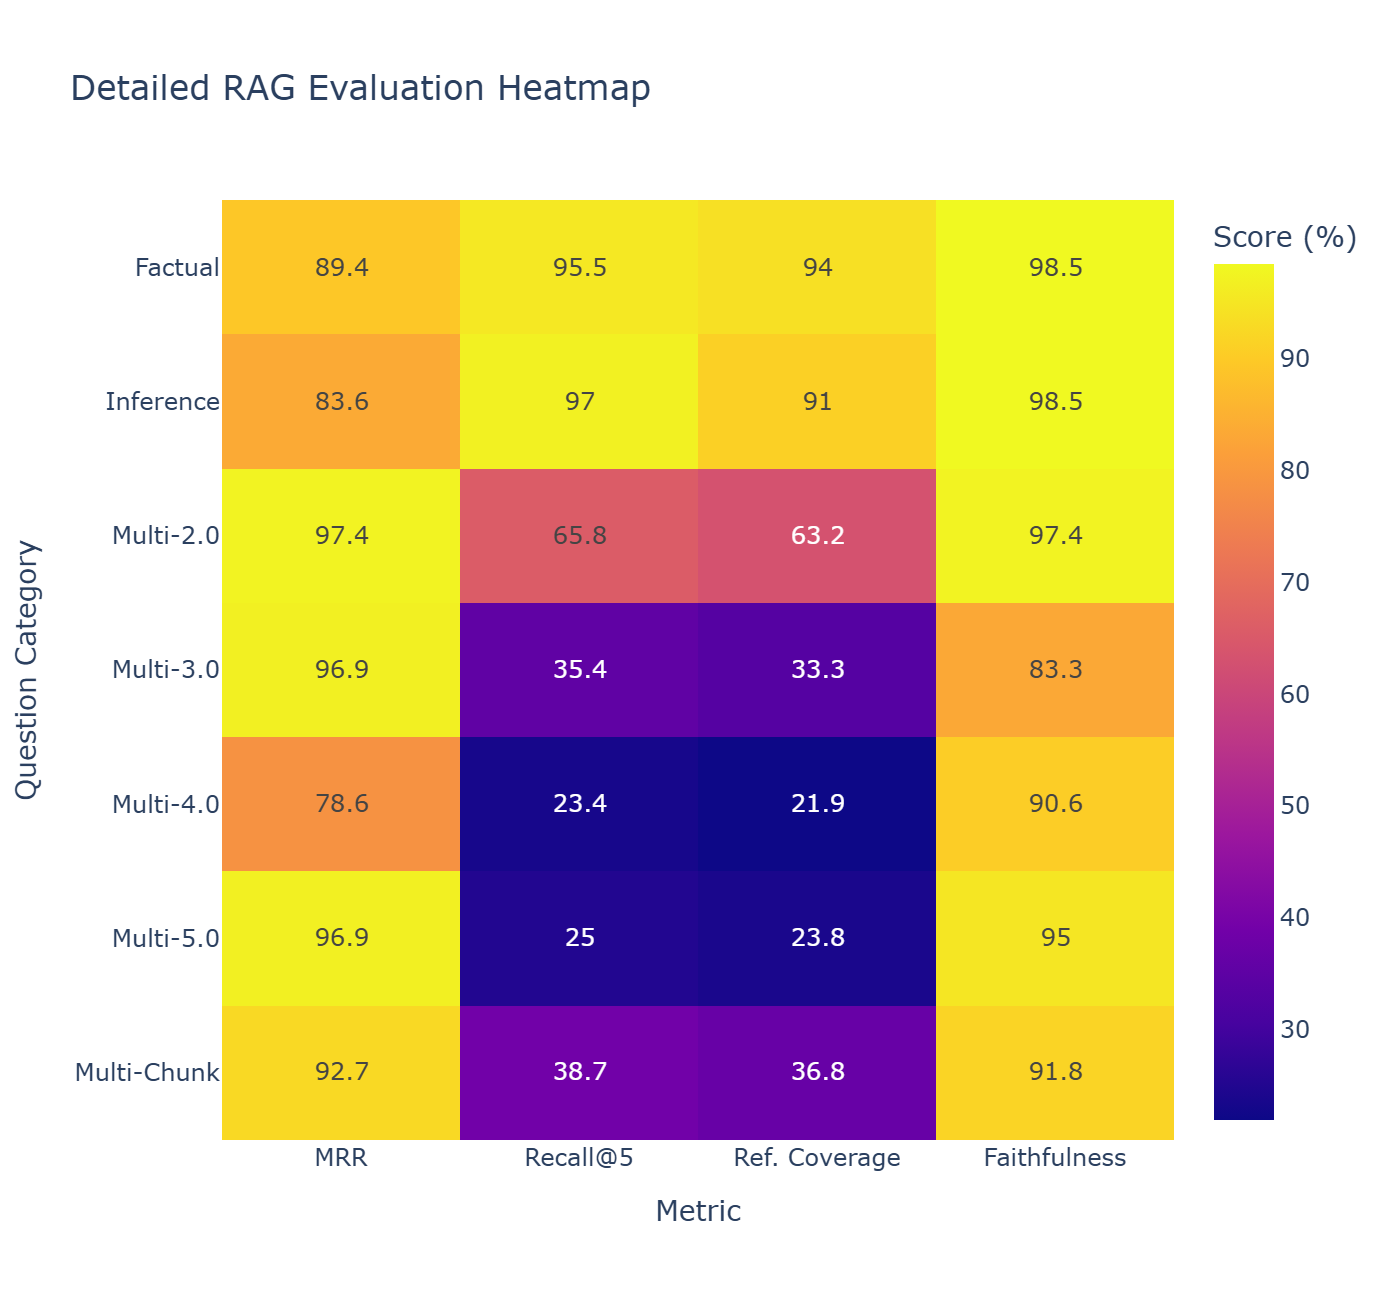
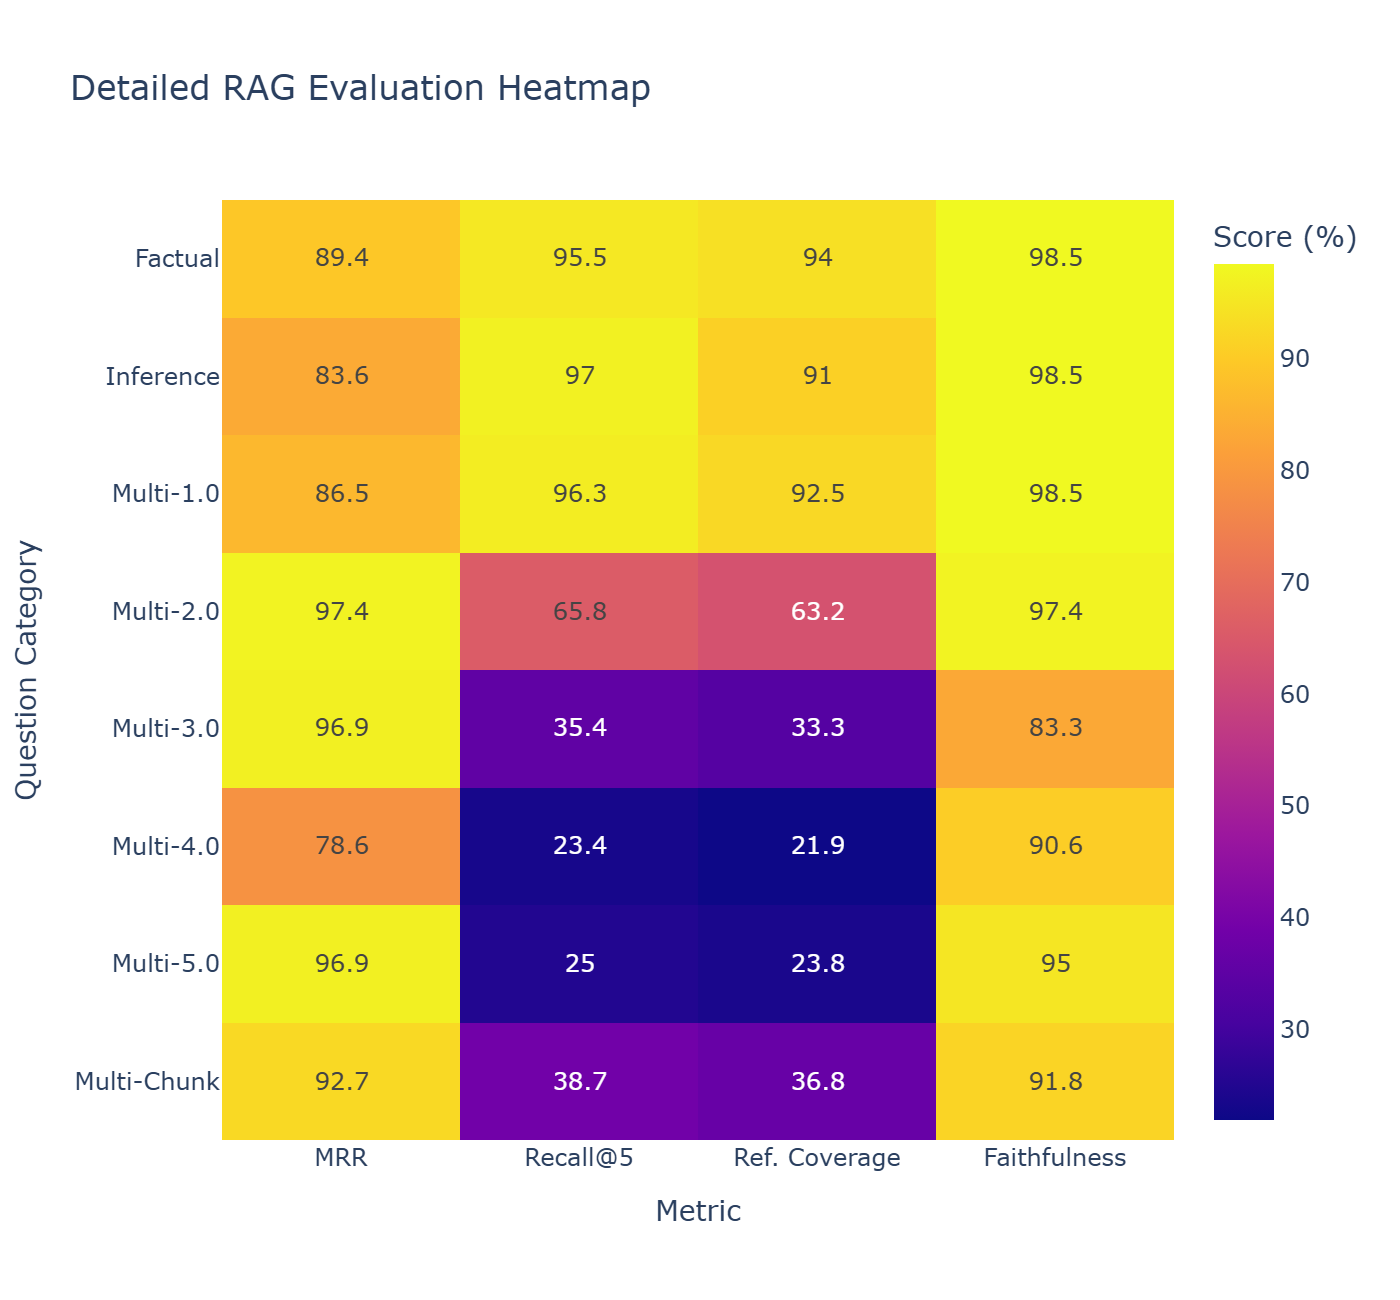
update multi-chunk plot

diff --git a/evaluation/visualization/utils.py b/evaluation/visualization/utils.py
@@ -64,6 +64,50 @@ def create_multi_chunk_df(results: dict):
     multi_chunk = retrieval["question_type_to_result"]["multi_chunk"]["num_chunks_to_result"]
     generation_multi = generation["question_type_to_result"]["multi_chunk"]["num_chunks_to_result"]
 
+    # -------------------------
+    # Single Chunk (factual + inference average)
+    # -------------------------
+
+    factual = retrieval["question_type_to_result"]["factual"]
+    inference = retrieval["question_type_to_result"]["inference"]
+
+    factual_gen = generation["question_type_to_result"]["factual"]
+    inference_gen = generation["question_type_to_result"]["inference"]
+
+    single_chunk = {
+        "Chunks": 1,
+
+        "MRR": percentage(
+            (
+                factual["mrr"]["sum"] +
+                inference["mrr"]["sum"]
+            ) / (factual["mrr"]["values"] + inference["mrr"]["values"])
+        ),
+
+        f"Recall@{settings.FINAL_TOP_K}": percentage(
+            (
+                factual["recall_k"]["sum"] +
+                inference["recall_k"]["sum"]
+            ) / (factual["recall_k"]["values"] + inference["recall_k"]["values"])
+        ),
+
+        "Ref. Coverage": percentage(
+            (
+                factual_gen["reference_coverage"]["sum"] +
+                inference_gen["reference_coverage"]["sum"]
+            ) /  (factual_gen["reference_coverage"]["values"] + inference_gen["reference_coverage"]["values"])
+        ),
+
+        "Faithfulness": percentage(
+            (
+                factual_gen["faithfulness"]["sum"] +
+                inference_gen["faithfulness"]["sum"]
+            ) / (factual_gen["faithfulness"]["values"] + inference_gen["faithfulness"]["values"])
+        )
+    }
+
+    rows.append(single_chunk)
+
     for chunks in range(2, settings.FINAL_TOP_K+1):
         chunks_str = str(chunks)
         rows.append({
